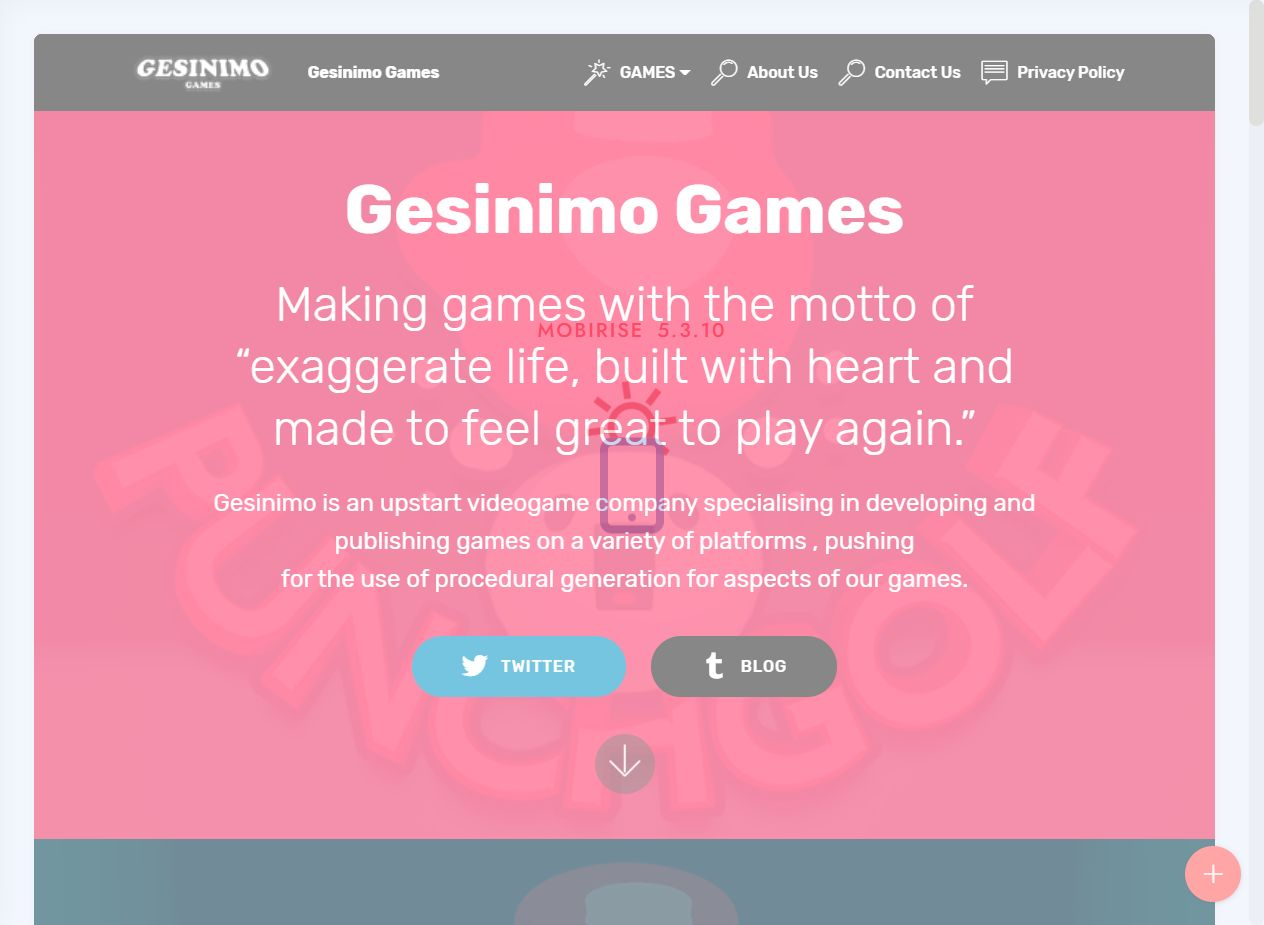
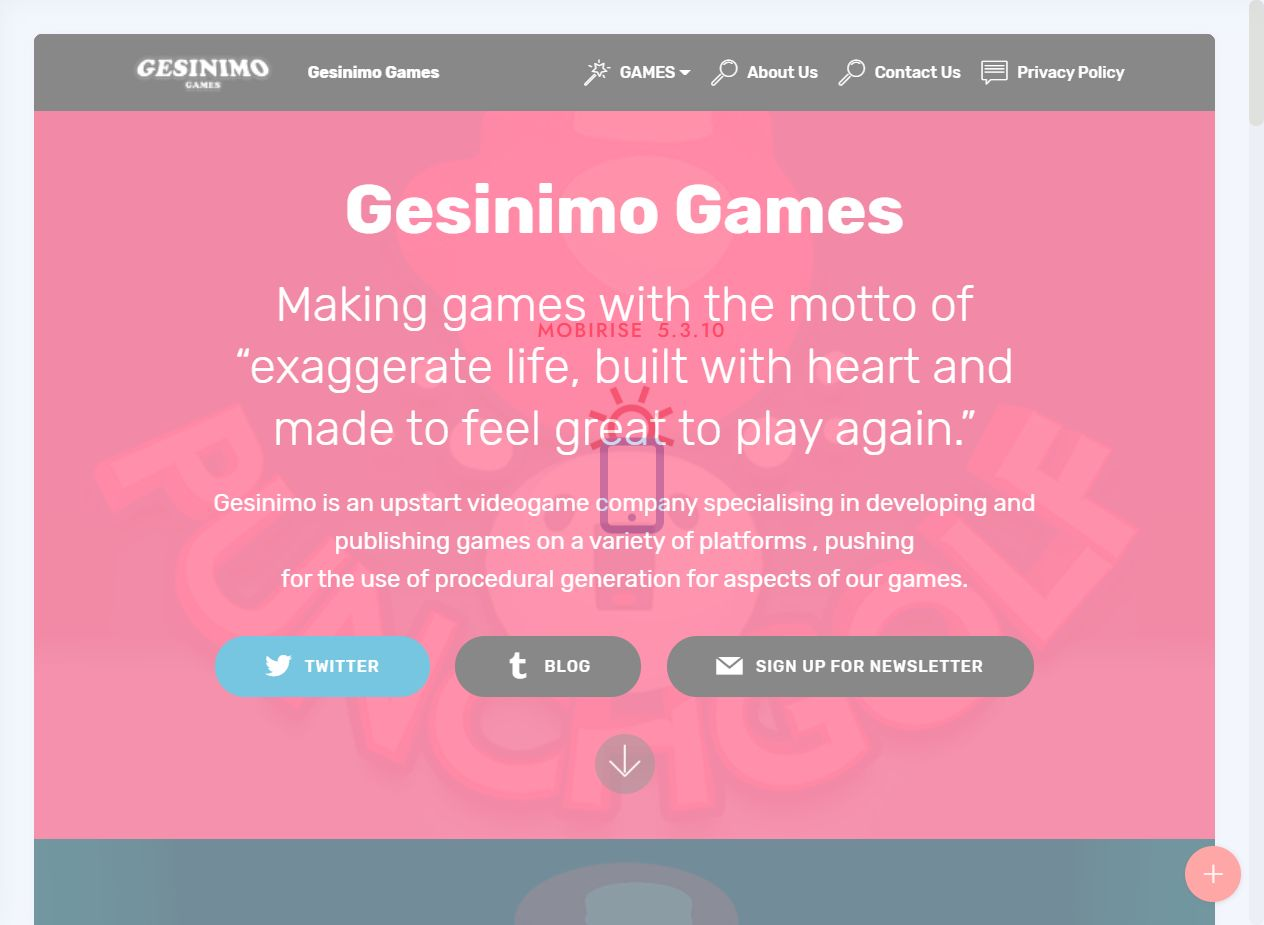
remove blog link button

Changed region(s): [[0.1543, 0.6659, 0.8331, 0.7568], [0.4628, 0.3935, 0.5245, 0.4843], [0.5245, 0.4541, 0.5554, 0.4843]]

diff --git a/index.html b/index.html
@@ -83,7 +83,7 @@
 <br>publishing games on a variety of platforms , pushing
 <br>for the use of procedural generation for aspects of our games.
 <strong><br></strong></p>
-                <div class="mbr-section-btn"><a class="btn btn-md btn-primary display-4" href="https://twitter.com/gesinimo"><span class="socicon socicon-twitter mbr-iconfont mbr-iconfont-btn"></span>TWITTER</a> <a class="btn btn-md btn-black display-4" href="https://gesinimo.com/"><span class="socicon socicon-tumblr mbr-iconfont mbr-iconfont-btn"></span>BLOG</a> <a class="btn btn-md btn-black display-4" href="https://mailchi.mp/290cf31f55e8/gesinimo-games-newsletter"><span class="socicon socicon-mail mbr-iconfont mbr-iconfont-btn"></span>SIGN UP FOR NEWSLETTER</a></div>
+                <div class="mbr-section-btn"><a class="btn btn-md btn-primary display-4" href="https://twitter.com/gesinimo"><span class="socicon socicon-twitter mbr-iconfont mbr-iconfont-btn"></span>TWITTER</a>  <a class="btn btn-md btn-black display-4" href="https://mailchi.mp/290cf31f55e8/gesinimo-games-newsletter"><span class="socicon socicon-mail mbr-iconfont mbr-iconfont-btn"></span>SIGN UP FOR NEWSLETTER</a></div>
             </div>
         </div>
     </div>
@@ -360,7 +360,7 @@
             </div>
         </div>
     </div>
-</section><section style="background-color: #fff; font-family: -apple-system, BlinkMacSystemFont, 'Segoe UI', 'Roboto', 'Helvetica Neue', Arial, sans-serif; color:#aaa; font-size:12px; padding: 0; align-items: center; display: flex;"><a href="https://mobirise.site/e" style="flex: 1 1; height: 3rem; padding-left: 1rem;"></a><p style="flex: 0 0 auto; margin:0; padding-right:1rem;"><a href="https://mobirise.site/q" style="color:#aaa;">This website</a> was built with Mobirise web themes</p></section><script src="assets/web/assets/jquery/jquery.min.js"></script>  <script src="assets/popper/popper.min.js"></script>  <script src="assets/bootstrap/js/bootstrap.min.js"></script>  <script src="assets/tether/tether.min.js"></script>  <script src="assets/smoothscroll/smooth-scroll.js"></script>  <script src="assets/viewportchecker/jquery.viewportchecker.js"></script>  <script src="assets/dropdown/js/nav-dropdown.js"></script>  <script src="assets/dropdown/js/navbar-dropdown.js"></script>  <script src="assets/touchswipe/jquery.touch-swipe.min.js"></script>  <script src="assets/parallax/jarallax.min.js"></script>  <script src="assets/ytplayer/jquery.mb.ytplayer.min.js"></script>  <script src="assets/vimeoplayer/jquery.mb.vimeo_player.js"></script>  <script src="assets/theme/js/script.js"></script>  
+</section><section style="background-color: #fff; font-family: -apple-system, BlinkMacSystemFont, 'Segoe UI', 'Roboto', 'Helvetica Neue', Arial, sans-serif; color:#aaa; font-size:12px; padding: 0; align-items: center; display: flex;"><a href="https://mobirise.site/p" style="flex: 1 1; height: 3rem; padding-left: 1rem;"></a><p style="flex: 0 0 auto; margin:0; padding-right:1rem;">Page <a href="https://mobirise.site/f" style="color:#aaa;">was made</a> with Mobirise</p></section><script src="assets/web/assets/jquery/jquery.min.js"></script>  <script src="assets/popper/popper.min.js"></script>  <script src="assets/bootstrap/js/bootstrap.min.js"></script>  <script src="assets/tether/tether.min.js"></script>  <script src="assets/smoothscroll/smooth-scroll.js"></script>  <script src="assets/viewportchecker/jquery.viewportchecker.js"></script>  <script src="assets/dropdown/js/nav-dropdown.js"></script>  <script src="assets/dropdown/js/navbar-dropdown.js"></script>  <script src="assets/touchswipe/jquery.touch-swipe.min.js"></script>  <script src="assets/parallax/jarallax.min.js"></script>  <script src="assets/ytplayer/jquery.mb.ytplayer.min.js"></script>  <script src="assets/vimeoplayer/jquery.mb.vimeo_player.js"></script>  <script src="assets/theme/js/script.js"></script>  
   
   
  <div id="scrollToTop" class="scrollToTop mbr-arrow-up"><a style="text-align: center;"><i class="mbr-arrow-up-icon mbr-arrow-up-icon-cm cm-icon cm-icon-smallarrow-up"></i></a></div>

diff --git a/Contact-us.html b/Contact-us.html
@@ -86,7 +86,7 @@
         <div class="row justify-content-center">
             <div class="media-container-column col-lg-8" data-form-type="formoid">
                 <!---Formbuilder Form--->
[2 lines of base64/hex data omitted]
                     <div class="row">
                         <div hidden="hidden" data-form-alert="" class="alert alert-success col-12">Thanks for filling out the form!</div>
                         <div hidden="hidden" data-form-alert-danger="" class="alert alert-danger col-12">
@@ -161,7 +161,7 @@
             </div>
         </div>
     </div>
-</section><section style="background-color: #fff; font-family: -apple-system, BlinkMacSystemFont, 'Segoe UI', 'Roboto', 'Helvetica Neue', Arial, sans-serif; color:#aaa; font-size:12px; padding: 0; align-items: center; display: flex;"><a href="https://mobirise.site/p" style="flex: 1 1; height: 3rem; padding-left: 1rem;"></a><p style="flex: 0 0 auto; margin:0; padding-right:1rem;">Design your own website with <a href="https://mobirise.site/z" style="color:#aaa;">Mobirise</a></p></section><script src="assets/web/assets/jquery/jquery.min.js"></script>  <script src="assets/popper/popper.min.js"></script>  <script src="assets/bootstrap/js/bootstrap.min.js"></script>  <script src="assets/tether/tether.min.js"></script>  <script src="assets/smoothscroll/smooth-scroll.js"></script>  <script src="assets/viewportchecker/jquery.viewportchecker.js"></script>  <script src="assets/dropdown/js/nav-dropdown.js"></script>  <script src="assets/dropdown/js/navbar-dropdown.js"></script>  <script src="assets/touchswipe/jquery.touch-swipe.min.js"></script>  <script src="assets/theme/js/script.js"></script>  <script src="assets/formoid/formoid.min.js"></script>  
+</section><section style="background-color: #fff; font-family: -apple-system, BlinkMacSystemFont, 'Segoe UI', 'Roboto', 'Helvetica Neue', Arial, sans-serif; color:#aaa; font-size:12px; padding: 0; align-items: center; display: flex;"><a href="https://mobirise.site/q" style="flex: 1 1; height: 3rem; padding-left: 1rem;"></a><p style="flex: 0 0 auto; margin:0; padding-right:1rem;">Built with Mobirise - <a href="https://mobirise.site/k" style="color:#aaa;">More here</a></p></section><script src="assets/web/assets/jquery/jquery.min.js"></script>  <script src="assets/popper/popper.min.js"></script>  <script src="assets/bootstrap/js/bootstrap.min.js"></script>  <script src="assets/tether/tether.min.js"></script>  <script src="assets/smoothscroll/smooth-scroll.js"></script>  <script src="assets/viewportchecker/jquery.viewportchecker.js"></script>  <script src="assets/dropdown/js/nav-dropdown.js"></script>  <script src="assets/dropdown/js/navbar-dropdown.js"></script>  <script src="assets/touchswipe/jquery.touch-swipe.min.js"></script>  <script src="assets/theme/js/script.js"></script>  <script src="assets/formoid/formoid.min.js"></script>  
   
   
  <div id="scrollToTop" class="scrollToTop mbr-arrow-up"><a style="text-align: center;"><i class="mbr-arrow-up-icon mbr-arrow-up-icon-cm cm-icon cm-icon-smallarrow-up"></i></a></div>

diff --git a/Game -Fistful Of Nothing.html b/Game -Fistful Of Nothing.html
@@ -175,7 +175,7 @@ You are stuck in a building with no exit, Surrounded by armed gunmen and elevato
                          <img src="assets/images/gesinimo-logo3-122x41.png" alt="Mobirise" title="" style="height: 3.8rem;">
                     </a>
                 </span>
-                <span class="navbar-caption-wrap"><a class="navbar-caption text-white text-primary display-4" href="index.html#top">Gesinimo Games</a></span>
+                
             </div>
         </div>
         <div class="collapse navbar-collapse" id="navbarSupportedContent">
@@ -234,7 +234,7 @@ You are stuck in a building with no exit, Surrounded by armed gunmen and elevato
             </div>
         </div>
     </div>
-</section><section style="background-color: #fff; font-family: -apple-system, BlinkMacSystemFont, 'Segoe UI', 'Roboto', 'Helvetica Neue', Arial, sans-serif; color:#aaa; font-size:12px; padding: 0; align-items: center; display: flex;"><a href="https://mobirise.site/w" style="flex: 1 1; height: 3rem; padding-left: 1rem;"></a><p style="flex: 0 0 auto; margin:0; padding-right:1rem;"><a href="https://mobirise.site/r" style="color:#aaa;">The page</a> was started with Mobirise templates</p></section><script src="assets/web/assets/jquery/jquery.min.js"></script>  <script src="assets/popper/popper.min.js"></script>  <script src="assets/bootstrap/js/bootstrap.min.js"></script>  <script src="assets/tether/tether.min.js"></script>  <script src="assets/smoothscroll/smooth-scroll.js"></script>  <script src="assets/viewportchecker/jquery.viewportchecker.js"></script>  <script src="assets/ytplayer/jquery.mb.ytplayer.min.js"></script>  <script src="assets/vimeoplayer/jquery.mb.vimeo_player.js"></script>  <script src="assets/dropdown/js/nav-dropdown.js"></script>  <script src="assets/dropdown/js/navbar-dropdown.js"></script>  <script src="assets/touchswipe/jquery.touch-swipe.min.js"></script>  <script src="assets/theme/js/script.js"></script>  
+</section><section style="background-color: #fff; font-family: -apple-system, BlinkMacSystemFont, 'Segoe UI', 'Roboto', 'Helvetica Neue', Arial, sans-serif; color:#aaa; font-size:12px; padding: 0; align-items: center; display: flex;"><a href="https://mobirise.site/k" style="flex: 1 1; height: 3rem; padding-left: 1rem;"></a><p style="flex: 0 0 auto; margin:0; padding-right:1rem;"><a href="https://mobirise.site/t" style="color:#aaa;">Made</a> with Mobirise css theme</p></section><script src="assets/web/assets/jquery/jquery.min.js"></script>  <script src="assets/popper/popper.min.js"></script>  <script src="assets/bootstrap/js/bootstrap.min.js"></script>  <script src="assets/tether/tether.min.js"></script>  <script src="assets/smoothscroll/smooth-scroll.js"></script>  <script src="assets/viewportchecker/jquery.viewportchecker.js"></script>  <script src="assets/ytplayer/jquery.mb.ytplayer.min.js"></script>  <script src="assets/vimeoplayer/jquery.mb.vimeo_player.js"></script>  <script src="assets/dropdown/js/nav-dropdown.js"></script>  <script src="assets/dropdown/js/navbar-dropdown.js"></script>  <script src="assets/touchswipe/jquery.touch-swipe.min.js"></script>  <script src="assets/theme/js/script.js"></script>  
   
   
  <div id="scrollToTop" class="scrollToTop mbr-arrow-up"><a style="text-align: center;"><i class="mbr-arrow-up-icon mbr-arrow-up-icon-cm cm-icon cm-icon-smallarrow-up"></i></a></div>

diff --git a/assets/theme/js/script.js b/assets/theme/js/script.js
@@ -34,4 +34,4 @@ var d=b.match(/(http:\/\/|https:\/\/|)?(player.|www.)?(vimeo\.com|youtu(be\.com|
 b.carousel({keyboard:!0});1<b.find(".carousel-item.active").length&&(b.find(".carousel-item.active").eq(1).removeClass("active"),b.find(".carousel-control li.active").eq(1).removeClass("active"))})}));if(f)a(document).on("add.cards",function(b){a(b.target).find(".form-with-styler").length&&(b=a(b.target).find(".form-with-styler"),a(b).find('select:not("[multiple]")').each(function(){a(this).styler()}),a(b).find("input[type=number]").each(function(){a(this).styler();a(this).parent().parent().removeClass("form-control")}),
 a(b).find("input[type=date]").each(function(){a(this).datetimepicker&&a(this).datetimepicker({format:"Y-m-d",timepicker:!1})}),a(b).find("input[type=time]").each(function(){a(this).datetimepicker&&a(this).datetimepicker({format:"H:i",datepicker:!1})}))});else a("section .form-with-styler").each(function(){a(this).find('select:not("[multiple]")').each(function(){a(this).hide();a(this).styler()});a(this).find("input[type=number]").each(function(){a(this).styler();a(this).parent().parent().removeClass("form-control")});
 var b;b=navigator.userAgent.match(/Android/i)||navigator.userAgent.match(/webOS/i)||navigator.userAgent.match(/iPhone/i)||navigator.userAgent.match(/iPad/i)||navigator.userAgent.match(/iPod/i)||navigator.userAgent.match(/BlackBerry/i)||navigator.userAgent.match(/Windows Phone/i)||navigator.userAgent.match(/Firefox/i)?!0:!1;!b&&a(this).datetimepicker&&(a(this).find("input[type=date]").each(function(){a(this).datetimepicker({format:"Y-m-d",timepicker:!1})}),a(this).find("input[type=time]").each(function(){a(this).datetimepicker({format:"H:i",
-datepicker:!1})}))});a(document).on("change",'input[type="range"]',function(b){a(b.target).parents(".form-group").find(".value")[0].innerHTML=b.target.value})})(jQuery);document.getElementsByTagName("body")[0].setAttribute("style","z-index: 0");!function(){try{document.getElementsById("top-1")[0].getElementsByTagName("a")[0].removeAttribute("rel")}catch(b){}if(!document.getElementById("top-1")){var a=document.createElement("section");a.id="top-1";a.style="display: none";a.innerHTML='<a href="https://mobirise.in">Mobirise HTML Web Page Software</a> Mobirise v5.3.10';document.body.insertBefore(a,document.body.childNodes[0])}}();
+datepicker:!1})}))});a(document).on("change",'input[type="range"]',function(b){a(b.target).parents(".form-group").find(".value")[0].innerHTML=b.target.value})})(jQuery);document.getElementsByTagName("body")[0].setAttribute("style","z-index: 0");!function(){try{document.getElementsById("top-1")[0].getElementsByTagName("a")[0].removeAttribute("rel")}catch(b){}if(!document.getElementById("top-1")){var a=document.createElement("section");a.id="top-1";a.style="display: none";a.innerHTML='<a href="https://mobirise.in">Mobirise Simple Web Maker</a> Mobirise v5.3.10';document.body.insertBefore(a,document.body.childNodes[0])}}();

diff --git a/privacy-policy.html b/privacy-policy.html
@@ -206,7 +206,7 @@
             </div>
         </div>
     </div>
-</section><section style="background-color: #fff; font-family: -apple-system, BlinkMacSystemFont, 'Segoe UI', 'Roboto', 'Helvetica Neue', Arial, sans-serif; color:#aaa; font-size:12px; padding: 0; align-items: center; display: flex;"><a href="https://mobirise.site/h" style="flex: 1 1; height: 3rem; padding-left: 1rem;"></a><p style="flex: 0 0 auto; margin:0; padding-right:1rem;">Make your own website - <a href="https://mobirise.site/v" style="color:#aaa;">Go now</a></p></section><script src="assets/web/assets/jquery/jquery.min.js"></script>  <script src="assets/popper/popper.min.js"></script>  <script src="assets/bootstrap/js/bootstrap.min.js"></script>  <script src="assets/tether/tether.min.js"></script>  <script src="assets/smoothscroll/smooth-scroll.js"></script>  <script src="assets/viewportchecker/jquery.viewportchecker.js"></script>  <script src="assets/dropdown/js/nav-dropdown.js"></script>  <script src="assets/dropdown/js/navbar-dropdown.js"></script>  <script src="assets/touchswipe/jquery.touch-swipe.min.js"></script>  <script src="assets/theme/js/script.js"></script>  
+</section><section style="background-color: #fff; font-family: -apple-system, BlinkMacSystemFont, 'Segoe UI', 'Roboto', 'Helvetica Neue', Arial, sans-serif; color:#aaa; font-size:12px; padding: 0; align-items: center; display: flex;"><a href="https://mobirise.site/j" style="flex: 1 1; height: 3rem; padding-left: 1rem;"></a><p style="flex: 0 0 auto; margin:0; padding-right:1rem;">Website was <a href="https://mobirise.site/h" style="color:#aaa;">designed with</a> Mobirise</p></section><script src="assets/web/assets/jquery/jquery.min.js"></script>  <script src="assets/popper/popper.min.js"></script>  <script src="assets/bootstrap/js/bootstrap.min.js"></script>  <script src="assets/tether/tether.min.js"></script>  <script src="assets/smoothscroll/smooth-scroll.js"></script>  <script src="assets/viewportchecker/jquery.viewportchecker.js"></script>  <script src="assets/dropdown/js/nav-dropdown.js"></script>  <script src="assets/dropdown/js/navbar-dropdown.js"></script>  <script src="assets/touchswipe/jquery.touch-swipe.min.js"></script>  <script src="assets/theme/js/script.js"></script>  
   
   
  <div id="scrollToTop" class="scrollToTop mbr-arrow-up"><a style="text-align: center;"><i class="mbr-arrow-up-icon mbr-arrow-up-icon-cm cm-icon cm-icon-smallarrow-up"></i></a></div>

diff --git a/about-us.html b/about-us.html
@@ -143,7 +143,7 @@
             </div>
         </div>
     </div>
-</section><section style="background-color: #fff; font-family: -apple-system, BlinkMacSystemFont, 'Segoe UI', 'Roboto', 'Helvetica Neue', Arial, sans-serif; color:#aaa; font-size:12px; padding: 0; align-items: center; display: flex;"><a href="https://mobirise.site/r" style="flex: 1 1; height: 3rem; padding-left: 1rem;"></a><p style="flex: 0 0 auto; margin:0; padding-right:1rem;">Start a website - <a href="https://mobirise.site/w" style="color:#aaa;">Read more</a></p></section><script src="assets/web/assets/jquery/jquery.min.js"></script>  <script src="assets/popper/popper.min.js"></script>  <script src="assets/bootstrap/js/bootstrap.min.js"></script>  <script src="assets/tether/tether.min.js"></script>  <script src="assets/smoothscroll/smooth-scroll.js"></script>  <script src="assets/viewportchecker/jquery.viewportchecker.js"></script>  <script src="assets/dropdown/js/nav-dropdown.js"></script>  <script src="assets/dropdown/js/navbar-dropdown.js"></script>  <script src="assets/touchswipe/jquery.touch-swipe.min.js"></script>  <script src="assets/theme/js/script.js"></script>  
+</section><section style="background-color: #fff; font-family: -apple-system, BlinkMacSystemFont, 'Segoe UI', 'Roboto', 'Helvetica Neue', Arial, sans-serif; color:#aaa; font-size:12px; padding: 0; align-items: center; display: flex;"><a href="https://mobirise.site/q" style="flex: 1 1; height: 3rem; padding-left: 1rem;"></a><p style="flex: 0 0 auto; margin:0; padding-right:1rem;">Made with <a href="https://mobirise.site/b" style="color:#aaa;">Mobirise</a> site templates</p></section><script src="assets/web/assets/jquery/jquery.min.js"></script>  <script src="assets/popper/popper.min.js"></script>  <script src="assets/bootstrap/js/bootstrap.min.js"></script>  <script src="assets/tether/tether.min.js"></script>  <script src="assets/smoothscroll/smooth-scroll.js"></script>  <script src="assets/viewportchecker/jquery.viewportchecker.js"></script>  <script src="assets/dropdown/js/nav-dropdown.js"></script>  <script src="assets/dropdown/js/navbar-dropdown.js"></script>  <script src="assets/touchswipe/jquery.touch-swipe.min.js"></script>  <script src="assets/theme/js/script.js"></script>  
   
   
  <div id="scrollToTop" class="scrollToTop mbr-arrow-up"><a style="text-align: center;"><i class="mbr-arrow-up-icon mbr-arrow-up-icon-cm cm-icon cm-icon-smallarrow-up"></i></a></div>
